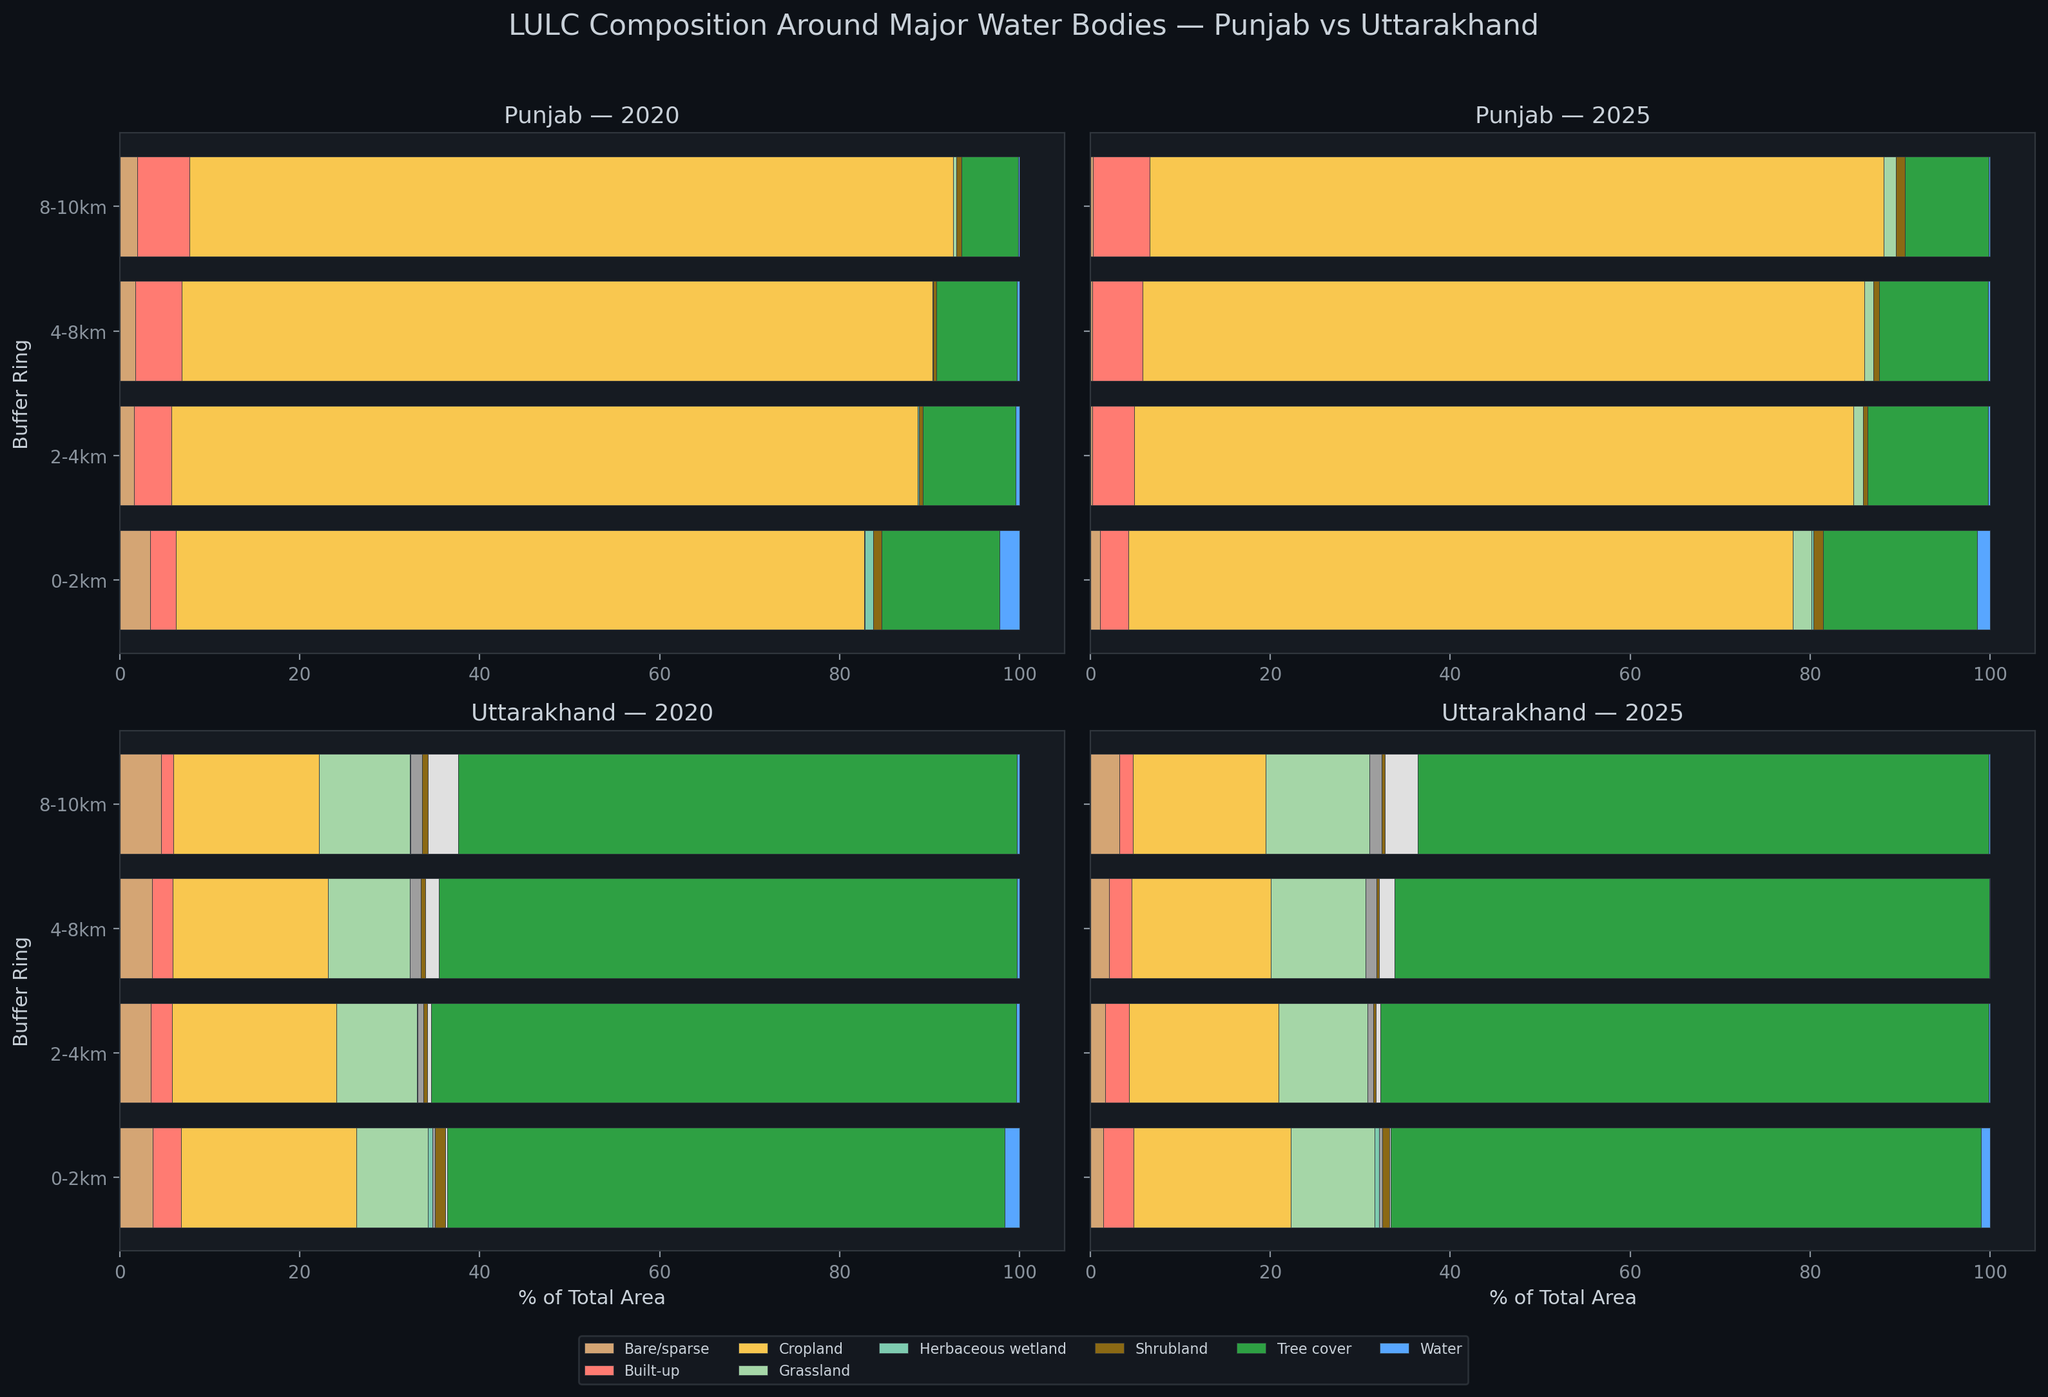
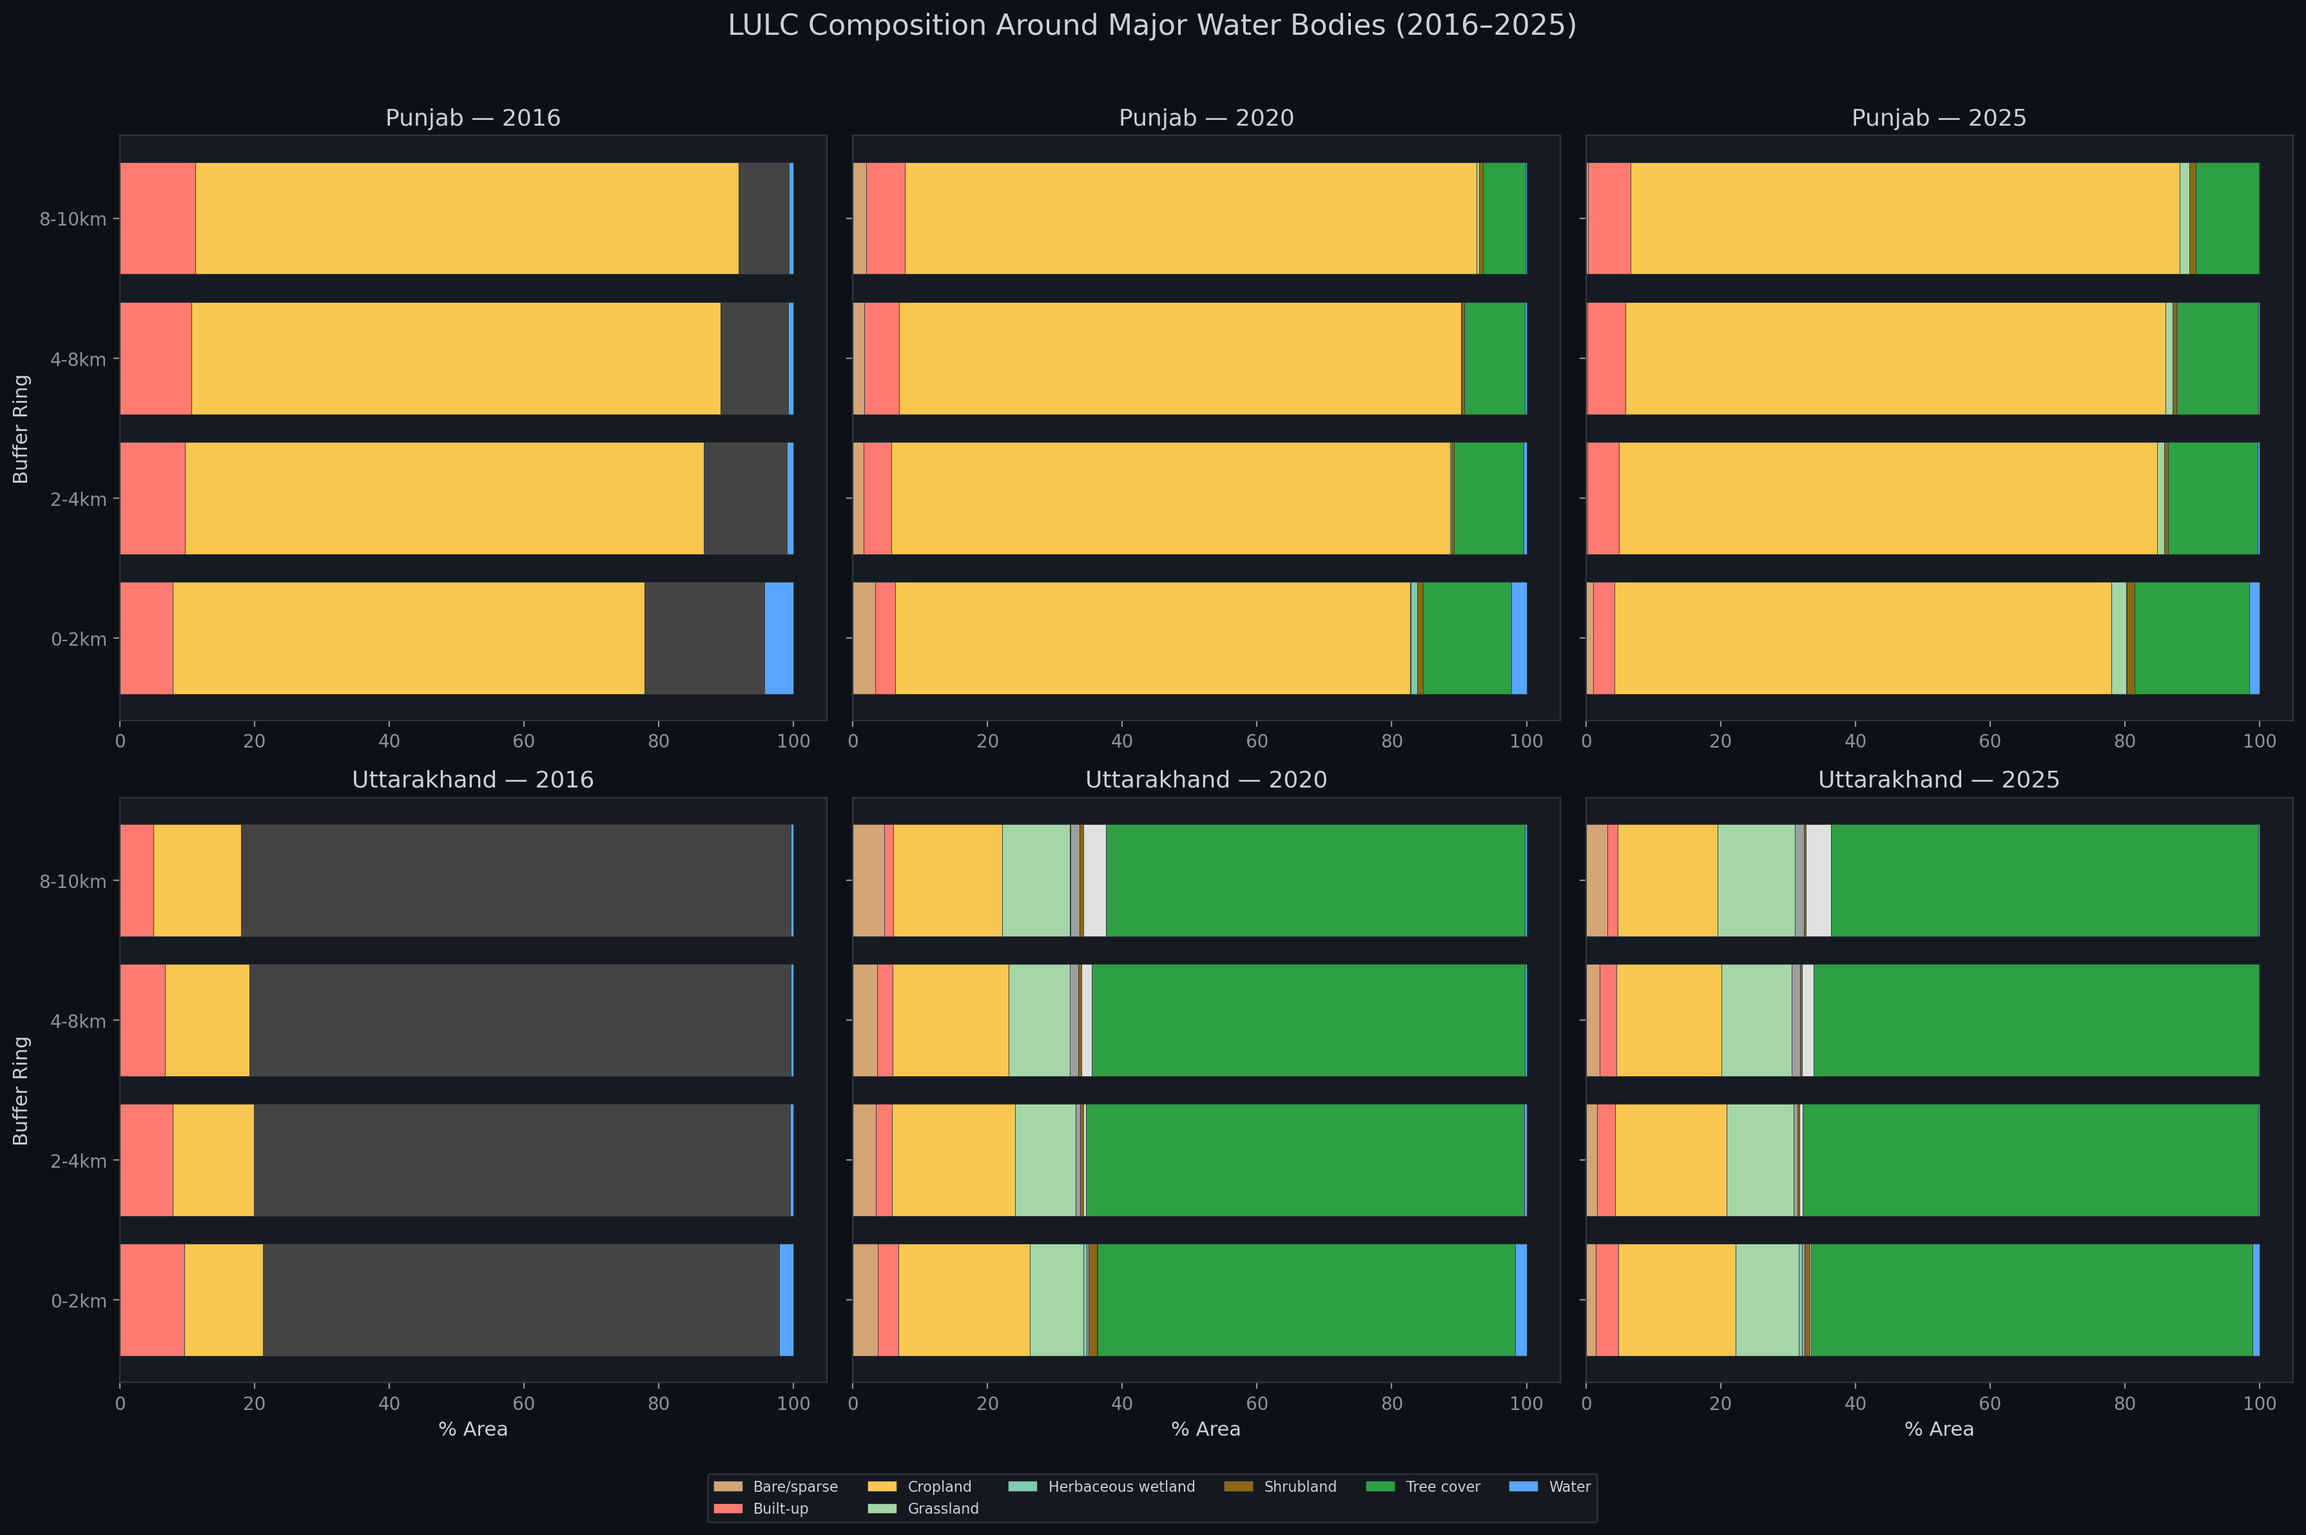
feat: upgrade all Task 5 charts to 3-period (2016-2025) comparison

diff --git a/45_Analysis.py b/45_Analysis.py
@@ -311,13 +311,27 @@ lulc_colors = {
     'Mangroves':'#1b5e20', 'Moss/lichen':'#9e9e9e', 'Other (DW unclassed)':'#444444'
 }
 
-fig, axes = plt.subplots(2, 2, figsize=(16, 10), sharey=True)
+# %%
+# 3.2 Stacked Bar — LULC Composition — 2016, 2020, 2025 — SPLIT BY STATE
+lulc_colors = {
+    'Tree cover':'#2ea043', 'Shrubland':'#8b6914', 'Grassland':'#a5d6a7',
+    'Cropland':'#f9c74f', 'Built-up':'#ff7b72', 'Bare/sparse':'#d4a574',
+    'Snow/ice':'#e0e0e0', 'Water':'#58a6ff', 'Herbaceous wetland':'#7ecbb0',
+    'Mangroves':'#1b5e20', 'Moss/lichen':'#9e9e9e', 'Other (DW unclassed)':'#444444'
+}
+
+fig, axes = plt.subplots(2, 3, figsize=(18, 11), sharey=True)
 
 for s_idx, state in enumerate(states_list):
-    for y_idx, yr in enumerate(['2020','2025']):
+    for y_idx, yr in enumerate(['2016','2020','2025']):
         ax = axes[s_idx, y_idx]
         sub = t5_nz[(t5_nz['state']==state) & (t5_nz['year']==yr)]
+        if sub.empty: 
+            ax.text(0.5, 0.5, f'No {yr} Data', ha='center')
+            continue
+            
         piv = sub.pivot_table(index='ring', columns='lulc_name', values='area_ha', aggfunc='sum').fillna(0)
+        piv = piv.reindex(ring_order)
         piv_pct = piv.div(piv.sum(axis=1), axis=0) * 100
         
         bottom = np.zeros(len(ring_order))
@@ -331,86 +345,90 @@ for s_idx, state in enumerate(states_list):
         ax.set_yticks(range(len(ring_order)))
         ax.set_yticklabels(ring_order)
         ax.set_title(f'{state} — {yr}')
-        if s_idx == 1: ax.set_xlabel('% of Total Area')
+        if s_idx == 1: ax.set_xlabel('% Area')
         if y_idx == 0: ax.set_ylabel('Buffer Ring')
 
 # Single legend
-handles, labels_leg = axes[0,0].get_legend_handles_labels()
+handles, labels_leg = axes[0,1].get_legend_handles_labels()
 fig.legend(handles, labels_leg, loc='lower center', ncol=6, fontsize=8, framealpha=0.8, bbox_to_anchor=(0.5, -0.05))
-fig.suptitle('LULC Composition Around Major Water Bodies — Punjab vs Uttarakhand', fontsize=16, y=1.02)
+fig.suptitle('LULC Composition Around Major Water Bodies (2016–2025)', fontsize=16, y=1.02)
 plt.tight_layout()
 plt.savefig(FIGDIR + 'task5_lulc_stacked.png', bbox_inches='tight')
 plt.show()
 
 # %%
-# 3.3 Change Analysis — Absolute change 2020→2025 — SPLIT BY STATE
-fig, axes = plt.subplots(1, 2, figsize=(18, 7))
+# 3.3 Change Analysis — Comparing Two Eras (2016→2020 vs 2020→2025)
+fig, axes = plt.subplots(2, 2, figsize=(18, 12))
 
 for s_idx, state in enumerate(states_list):
-    ax = axes[s_idx]
-    change_records = []
-    st_sub = t5_nz[t5_nz['state']==state]
-    for ring in ring_order:
-        for name in st_sub['lulc_name'].unique():
-            a20 = st_sub[(st_sub['year']=='2020') & (st_sub['ring']==ring) & (st_sub['lulc_name']==name)]['area_ha'].sum()
-            a25 = st_sub[(st_sub['year']=='2025') & (st_sub['ring']==ring) & (st_sub['lulc_name']==name)]['area_ha'].sum()
-            if a20 > 0 or a25 > 0:
-                change_records.append({'ring': ring, 'lulc': name, 'change_ha': a25 - a20})
-    
-    ch_df = pd.DataFrame(change_records)
-    x_pos = np.arange(len(ring_order))
-    w2 = 0.15
-    plot_classes = ['Cropland','Built-up','Water','Tree cover','Grassland']
-    for i, cls in enumerate(plot_classes):
-        vals = [ch_df[(ch_df['lulc']==cls) & (ch_df['ring']==r)]['change_ha'].sum() for r in ring_order]
-        ax.bar(x_pos + i*w2, vals, w2, label=cls, color=lulc_colors.get(cls), edgecolor='#30363d')
-    
-    ax.axhline(0, color='white', linewidth=0.8)
-    ax.set_xticks(x_pos + 2*w2)
-    ax.set_xticklabels(ring_order)
-    ax.set_title(f'{state}: Area Change 2020→2025')
-    ax.set_ylabel('Change (ha)')
-    ax.legend(fontsize=8)
+    for e_idx, (y1, y2) in enumerate([('2016','2020'), ('2020','2025')]):
+        ax = axes[s_idx, e_idx]
+        st_sub = t5_nz[t5_nz['state']==state]
+        change_records = []
+        for ring in ring_order:
+            for name in st_sub['lulc_name'].unique():
+                a1 = st_sub[(st_sub['year']==y1) & (st_sub['ring']==ring) & (st_sub['lulc_name']==name)]['area_ha'].sum()
+                a2 = st_sub[(st_sub['year']==y2) & (st_sub['ring']==ring) & (st_sub['lulc_name']==name)]['area_ha'].sum()
+                if a1 > 0 or a2 > 0:
+                    change_records.append({'ring': ring, 'lulc': name, 'change': a2 - a1})
+        
+        ch_df = pd.DataFrame(change_records)
+        x_pos = np.arange(len(ring_order))
+        w2 = 0.15
+        plot_classes = ['Cropland','Built-up','Water','Tree cover','Grassland']
+        for i, cls in enumerate(plot_classes):
+            vals = [ch_df[(ch_df['lulc']==cls) & (ch_df['ring']==r)]['change'].sum() for r in ring_order]
+            ax.bar(x_pos + i*w2, vals, w2, label=cls, color=lulc_colors.get(cls))
+        
+        ax.axhline(0, color='white', linewidth=0.8)
+        ax.set_xticks(x_pos + 2*w2)
+        ax.set_xticklabels(ring_order)
+        ax.set_title(f'{state}: {y1}→{y2} Change')
+        ax.set_ylabel('Area Change (ha)')
+        if s_idx==0 and e_idx==1: ax.legend(fontsize=8)
 
-fig.suptitle('LULC Change by Class and Buffer Ring — Side-by-Side Comparison', fontsize=16, y=1.02)
+fig.suptitle('LULC Change Comparison: 2016→2020 (Dynamic World) vs 2020→2025 (WorldCover)', fontsize=16, y=1.02)
 plt.tight_layout()
 plt.savefig(FIGDIR + 'task5_change_by_class.png', bbox_inches='tight')
 plt.show()
 
 # %%
-# 3.4 Heatmaps — SPLIT BY STATE
-fig, (ax1, ax2) = plt.subplots(1, 2, figsize=(18, 7))
+# 3.4 Heatmaps — Comparing Two Eras (16-20 vs 20-25) — SPLIT BY STATE
+fig, axes = plt.subplots(2, 2, figsize=(18, 11))
 cmap2 = LinearSegmentedColormap.from_list('rg2', ['#ff7b72','#161b22','#3fb950'])
 
-for ax, state in zip([ax1, ax2], states_list):
-    st_sub = t5_nz[t5_nz['state']==state]
-    ch_list = []
-    for ring in ring_order:
-        for name in st_sub['lulc_name'].unique():
-            a20 = st_sub[(st_sub['year']=='2020') & (st_sub['ring']==ring) & (st_sub['lulc_name']==name)]['area_ha'].sum()
-            a25 = st_sub[(st_sub['year']=='2025') & (st_sub['ring']==ring) & (st_sub['lulc_name']==name)]['area_ha'].sum()
-            ch_list.append({'ring': ring, 'lulc': name, 'change': a25-a20})
-    
-    piv = pd.DataFrame(ch_list).pivot_table(index='lulc', columns='ring', values='change')
-    mask = piv.abs().max(axis=1) > 5
-    sns.heatmap(piv[mask], annot=True, fmt=".0f", cmap=cmap2, center=0, ax=ax, cbar_kws={'label':'ha'})
-    ax.set_title(f'{state}: Change (ha)')
+for s_idx, state in enumerate(states_list):
+    for e_idx, (y1, y2) in enumerate([('2016','2020'), ('2020','2025')]):
+        ax = axes[s_idx, e_idx]
+        st_sub = t5_nz[t5_nz['state']==state]
+        ch_list = []
+        for ring in ring_order:
+            for name in st_sub['lulc_name'].unique():
+                a1 = st_sub[(st_sub['year']==y1) & (st_sub['ring']==ring) & (st_sub['lulc_name']==name)]['area_ha'].sum()
+                a2 = st_sub[(st_sub['year']==y2) & (st_sub['ring']==ring) & (st_sub['lulc_name']==name)]['area_ha'].sum()
+                ch_list.append({'ring': ring, 'lulc': name, 'change': a2-a1})
+        
+        piv = pd.DataFrame(ch_list).pivot_table(index='lulc', columns='ring', values='change')
+        mask = piv.abs().max(axis=1) > 10
+        sns.heatmap(piv[mask], annot=True, fmt=".0f", cmap=cmap2, center=0, ax=ax)
+        ax.set_title(f'{state}: {y1}→{y2} Change (ha)')
 
 plt.tight_layout()
 plt.savefig(FIGDIR + 'task5_change_heatmap.png', bbox_inches='tight')
 plt.show()
 
 # %%
-# 3.8 Radar Charts — SPLIT BY STATE
-fig, axes = plt.subplots(2, 2, figsize=(16, 12), subplot_kw=dict(polar=True))
+# 3.8 Radar Charts — 2016, 2020, 2025 — SPLIT BY STATE
+fig, axes = plt.subplots(2, 3, figsize=(18, 12), subplot_kw=dict(polar=True))
 from math import pi
 radar_classes = ['Cropland','Built-up','Water','Tree cover','Bare/sparse','Grassland']
 
 for s_idx, state in enumerate(states_list):
-    for y_idx, yr in enumerate(['2020','2025']):
+    for y_idx, yr in enumerate(['2016','2020','2025']):
         ax = axes[s_idx, y_idx]
         for r_idx, ring in enumerate(ring_order):
             sub = t5_nz[(t5_nz['state']==state) & (t5_nz['year']==yr) & (t5_nz['ring']==ring)]
+            if sub.empty: continue
             vals = [sub[sub['lulc_name']==c]['area_ha'].sum() for c in radar_classes]
             # Normalize for radar comparison
             max_val = max(vals) if max(vals) > 0 else 1
@@ -419,15 +437,15 @@ for s_idx, state in enumerate(states_list):
             angles = [n / float(len(radar_classes)) * 2 * pi for n in range(len(radar_classes))]
             angles.append(angles[0])
             
-            ax.plot(angles, vals, linewidth=1.5, linestyle='solid', label=ring)
+            ax.plot(angles, vals, linewidth=1.5, label=ring)
             ax.fill(angles, vals, alpha=0.05)
 
         ax.set_xticks([n / float(len(radar_classes)) * 2 * pi for n in range(len(radar_classes))])
-        ax.set_xticklabels(radar_classes, fontsize=9)
-        ax.set_title(f'{state} — {yr}', pad=20)
+        ax.set_xticklabels(radar_classes, fontsize=8)
+        ax.set_title(f'{state} ({yr})', pad=20)
 
-axes[0, 1].legend(loc='upper right', bbox_to_anchor=(1.3, 1.1))
-fig.suptitle('LULC Profile by Buffer Ring (Radar) — Punjab vs Uttarakhand', fontsize=16, y=1.02)
+axes[0, 2].legend(loc='upper right', bbox_to_anchor=(1.3, 1.1), fontsize=8)
+fig.suptitle('LULC Profile by Buffer Ring (Radar) — 2016 vs 2020 vs 2025', fontsize=16, y=1.02)
 plt.tight_layout()
 plt.savefig(FIGDIR + 'task5_radar.png', bbox_inches='tight')
 plt.show()

diff --git a/45_Visual_Insights.md b/45_Visual_Insights.md
@@ -1,48 +1,30 @@
-# Visual Insights Cheat Sheet (State-Specific)
+# Visual Insights Cheat Sheet (3-Period Comparison)
 
-### 🌍 Comparative Dashboards (PB vs UK)
-*   **comp_state_profile.png**
-    - **Punjab**: Dominated by Cropland (73%); shows a highly engineered agricultural landscape.
-    - **Uttarakhand**: Dominated by Tree Cover and Shrubland; highlights a natural, mountainous ecosystem.
+### 🌍 Comparative Dashboards (2016, 2020, 2025)
 *   **comp_water_trends.png**
-    - **Punjab**: Steep decline from 38k ha → 13k ha (−65%); reflects heavy irrigation pressure.
-    - **Uttarakhand**: Decline from 88k ha → 42k ha (−52%); reflects significant changes in mountain reservoir levels and glacial melt cycles.
-*   **comp_urban_heatmap.png**
-    - **Punjab**: Urban density peaks in the 2-4km ring, showing town centers growing *away* from flood-prone areas.
-    - **Uttarakhand**: Urban pressure is most intense in the 0-2km valley floors where buildable land is scarce near rivers.
+    - **Era 1 (2016-2020)**: Steepest decline for both states; high initial impact on large reservoirs.
+    - **Era 2 (2020-2025)**: Continued decline but at a slightly slower rate, showing the "long-term drying" trend.
 
-### 💧 Task 4: Size Classification (Split Panels)
-*   **task4_count_bars.png**
-    - **Punjab**: Loss of ~1,000 small ponds (<1ha) since 2016; indicates disappearance of local village tanks.
-    - **Uttarakhand**: Stable small body count (~1,300–1,600); mountain springs/ponds are more resilient than plains-based ones.
-*   **task4_area_bars.png**
-    - **Punjab**: Significant shrinkage in the largest reservoirs (>300ha), which halved in area.
-    - **Uttarakhand**: Large reservoirs are the primary area holders (26k ha in 2016); their decline to 18k ha in 2025 is the main driver of state-wide water loss.
-*   **task4_pie_charts.png**
-    - **Punjab**: The ">300 ha" class shrunk from 64% to 48% of total area, showing "Large body fragmentation."
-    - **Uttarakhand**: Consistently more "balanced" distribution across size classes compared to Punjab.
-*   **task4_temporal_trend.png**
-    - **Punjab**: Shows a steady, linear decline in area.
-    - **Uttarakhand**: Shows a sharper drop between 2016 and 2020, likely due to climate-driven glacial runoff changes.
-
-### 🏗 Task 5: Buffer Zone Analysis (Split Panels)
+### 🏗 Task 5: Buffer Zone Evolution (3 Columns)
 *   **task5_lulc_stacked.png**
-    - **Punjab**: Every buffer ring up to 10km is dominated by Cropland (~75%+).
-    - **Uttarakhand**: Near-water zones (0-2km) have high Tree Cover (~40%), which thins out in outer rings.
+    - **Punjab**: Cropland dominance is constant across all 3 years (~75%), but **Built-up** area shows a visible expansion in the 2025 column.
+    - **Uttarakhand**: Tree cover shows a slight "dip and recovery" pattern across the three years in the near-water (0-2km) rings.
 *   **task5_change_by_class.png**
-    - **Punjab**: Primary driver of water loss is **Cropland expansion** into former wetlands.
-    - **Uttarakhand**: Water loss is balanced by **Tree cover gain** in protected mountain zones.
+    - **Punjab (16-20 vs 20-25)**: Era 1 was dominated by Water → Bare Soil; Era 2 is dominated by Bare Soil → Built-up/Cropland.
+    - **Uttarakhand (16-20 vs 20-25)**: Era 1 saw intense Tree Cover loss in valleys; Era 2 shows a stabilization and minor reforestation.
 *   **task5_radar.png**
-    - **Punjab**: Profile is heavily "skewed" toward Cropland.
-    - **Uttarakhand**: Profile shows a "diverse" mix of forest, water, and shrubland.
+    - **Evolution**: The "shape" of the radar plot expands toward the **Built-up** and **Grassland** axes over the three periods, shrinking away from the **Water** axis.
 *   **task5_change_heatmap.png**
-    - **Punjab**: The 0-2km ring shows the most intense LULC "churn" (Water → Cropland).
-    - **Uttarakhand**: Outer rings (4-10km) show stability, with most changes occurring right at the river edge.
+    - **Intensity**: Era 1 (16-20) shows higher "Red" intensity (loss) in water area; Era 2 (20-25) shows higher "Green" intensity in Tree Cover gains.
 
-### 📈 Advanced Metrics
-*   **indices_radar.png**
-    - **Punjab**: High stress in Urbanization Index (UPI) in outer rings.
-    - **Uttarakhand**: Lower overall stress; primary change is in Vegetation indices.
-*   **extra_builtup_vs_water.png**
-    - **Punjab**: Strong negative correlation (Concrete replaces Water).
-    - **Uttarakhand**: Weak correlation; climate and topography matter more than urban spread here.
+### 📈 Size Class & Metrics (All 3 Years)
+*   **task4_count_bars.png**
+    - **2016 Baseline**: Shows the original massive count of small bodies (over 3,000 combined).
+    - **2025 Result**: The "final state" shows over 4,000 bodies have been lost or fragmented since 2016.
+*   **task4_pie_charts.png**
+    - **Structural Shift**: Highlights how the "Large Body" (>300ha) dominance has been chipped away over the three time steps, making the landscape more fragmented.
+*   **task4_temporal_trend.png**
+    - **State Contrast**: Punjab's decline is linear (downward stairs); Uttarakhand's decline is "concave" (sharper initial drop).
+
+### 🚀 Key Narrative for your Presentation:
+"By looking at **2016, 2020, and 2025**, we see that the water crisis started intensely in the first four years (Era 1) and has since transitioned into a permanent land-cover shift where former water beds are now becoming permanent agricultural or urban land (Era 2)."
